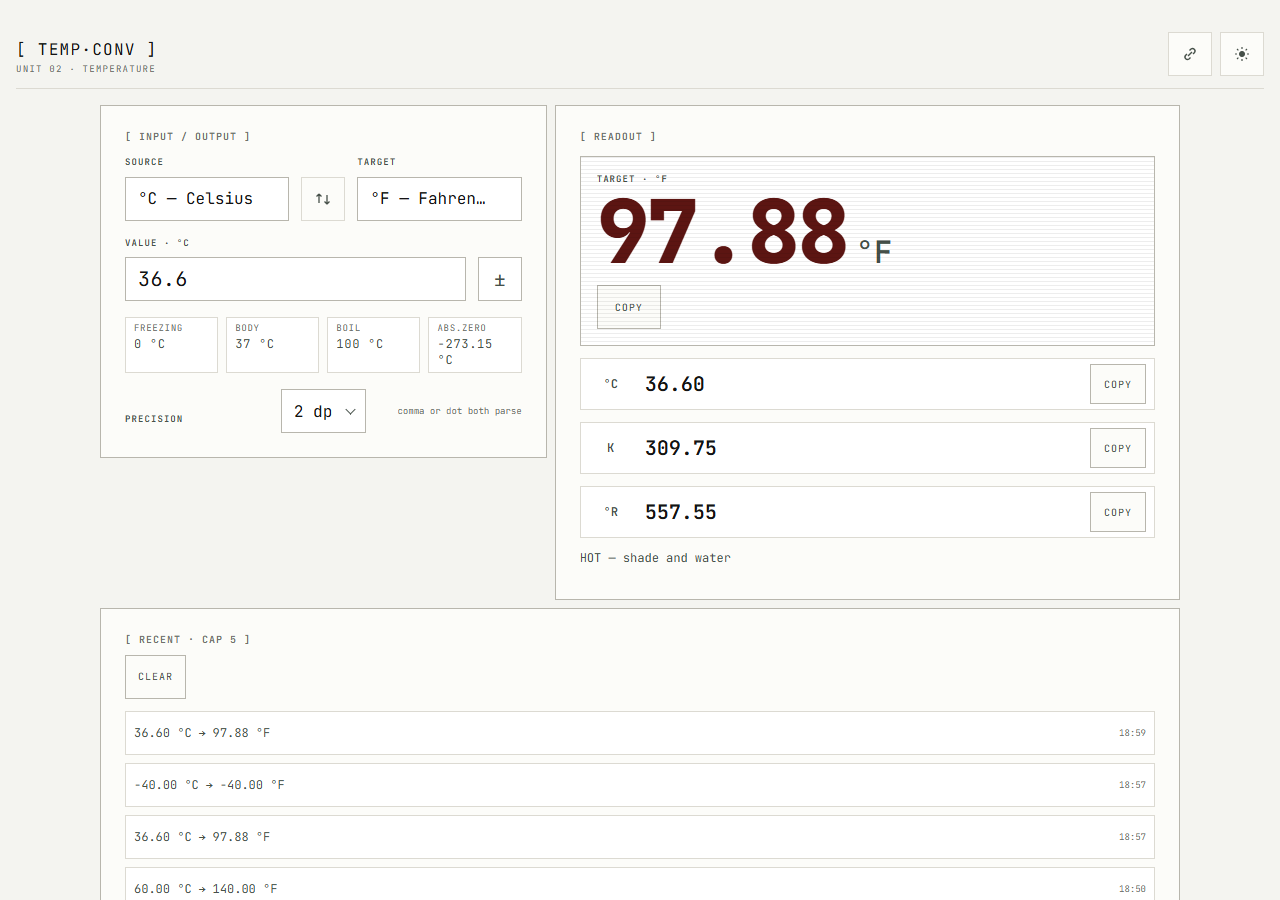
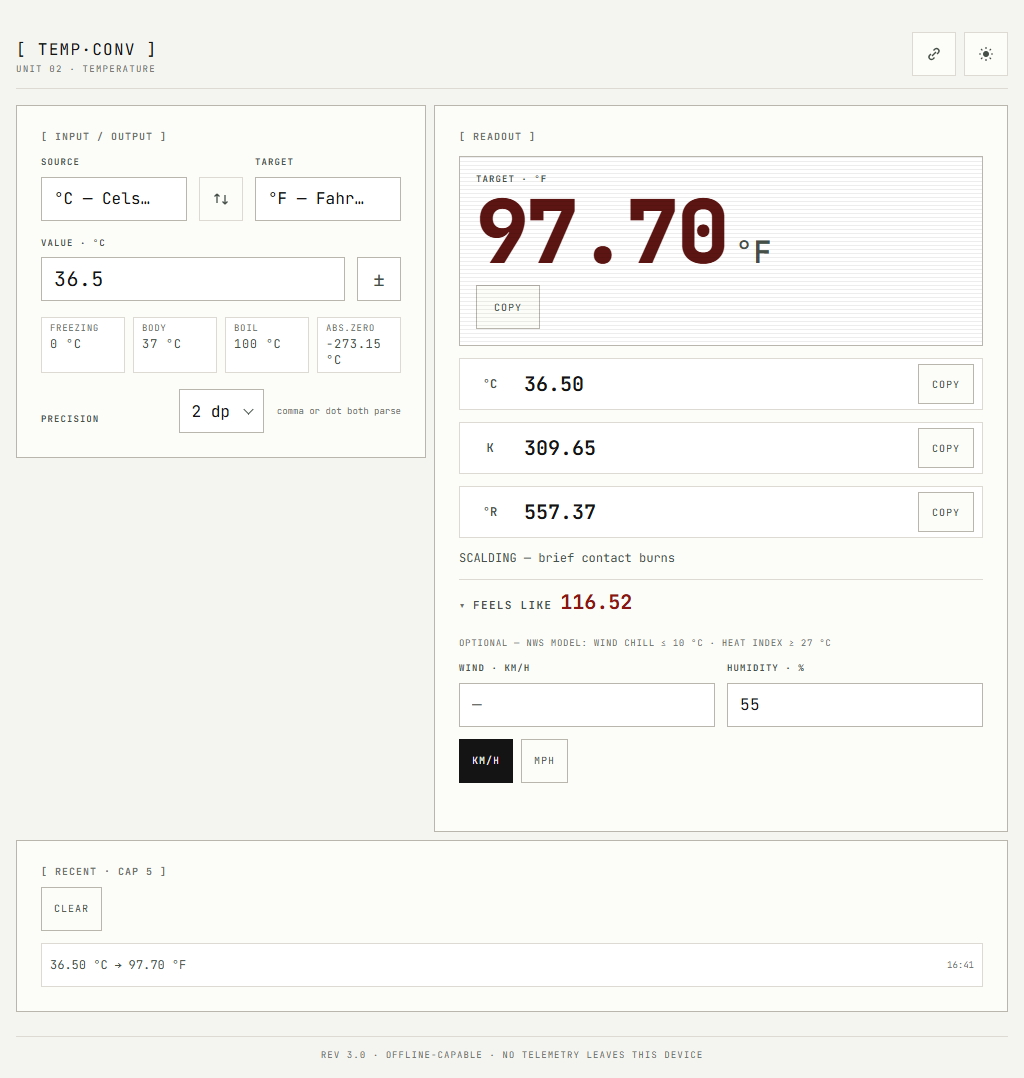
docs: README feels-like + cache guard sections, CHANGELOG 3.2.0, refreshed screenshots

diff --git a/README.md b/README.md
@@ -2,13 +2,14 @@
 
 Temperature instrument — converts between **Celsius, Fahrenheit, Kelvin and Rankine**, reads the scale back as what it physically *feels like*, and works fully offline. Unit 02 of the [Tactical Telemetry](https://github.com/AkabaneKarmX) instrument set.
 
-![Phone view: 36.6 °C read as 97.88 °F in warm phosphor](assets/screens/phone-hero.png)
+![Phone view: 36.6 °C read as 97.88 °F, heat index 117.05 °F engages](assets/screens/phone-hero.png)
 
 ## Features
 
 - **Four units, always live** — every keystroke converts to all three other scales at once; the target readout is the big hero, the other units are single-tap copy rows
 - **Thermal colour readout** — the hero value shifts hue with the temperature: steel blue at −40 °C, neutral at room temperature, brick/alarm red from body heat to boiling
 - **Feel band** — plain-language verdict under the readout ("FREEZING — ice season, pipes at risk", "HOT — shade and water")
+- **Feels like (NWS models)** — optional panel that turns the temperature into a felt-temperature: **wind chill** at ≤ 10 °C with enough wind (min ~4.8 km/h / 3 mph), **heat index** at ≥ 27 °C with ≥ 40 % humidity; outside those windows it says what's missing instead of inventing a number. The felt value takes over the hero readout and its thermal colour while it applies, and wind units toggle KM/H ↔ MPH
 - **Presets** — FREEZING / BODY / BOIL / ABS.ZERO, one tap each
 - **Precision control** — 0 to 4 decimal places, noise-free display (0.1 + 0.2 never shows up as 0.30000000000000004)
 - **Absolute-zero guard** — nothing below −273.15 °C parses as valid, in any input scale, float-edge included
@@ -19,7 +20,9 @@ Temperature instrument — converts between **Celsius, Fahrenheit, Kelvin and Ra
 - **Offline PWA** — service worker, same-origin-only, installs to the home screen
 - **Two themes** — dark phosphor console (default on dark OS) and light lab paper, auto or manual
 
-![Phone view: −40 °C in cold steel blue](assets/screens/phone-cold.png)
+![Phone view: −10 °C with 20 km/h of wind — wind chill grips the hero](assets/screens/phone-cold.png)
+
+![Phone view: the feels-like panel expanded — wind, humidity, unit chips](assets/screens/phone-feels.png)
 
 ![Desktop: two-column instrument layout](assets/screens/desktop-light.png)
 
@@ -43,7 +46,17 @@ Opening `index.html` directly from disk also works; only the offline install is 
 
 1. Push this branch and merge, or serve `main`.
 2. Settings → Pages → deploy from branch `main` → `/ (root)`.
-3. After every future change, remember to bump `CACHE` in `sw.js` so returning visitors get fresh files.
+3. After every change to any precached asset, bump `CACHE` in `sw.js` so returning visitors get fresh files. A pre-commit guard enforces this — it fingerprints every precached asset and blocks the commit if any of them changed while `CACHE` stayed the same.
+
+## Enabling the cache guard
+
+The guard runs on every commit, but hooks aren't cloned from GitHub — install it once after cloning:
+
+```bash
+cp tools/pre-commit .git/hooks/pre-commit
+```
+
+It is pure Node, reads assets straight from the git index (stable across line-ending settings), and refuses commits that alter precached files without a `CACHE` bump — including accidental bypasses it remembers after a `--no-verify` commit, which then block the next commit until you bump. Bypassing with `--no-verify` is allowed for WIP; the release commit must be guard-clean. To run the same check manually: `node tools/check-cache.js`.
 
 ## Tests
 
@@ -51,17 +64,24 @@ Opening `index.html` directly from disk also works; only the offline install is 
 node --test tests/convert.test.js
 ```
 
-Covers the conversion core: all 16 unit pairs, the −40 °C = −40 °F identity, absolute-zero clamp in every scale, float-boundary at the floor, comma-as-decimal parsing, magnitude and length caps, precision formatting and `-0` cleanup (15 tests).
+28 tests covering the conversion core: all 16 unit pairs, the −40 °C = −40 °F identity, absolute-zero clamp in every scale, float-boundary at the floor, comma-as-decimal parsing, magnitude and length caps, precision formatting and `-0` cleanup, exact-offset **K↔R and F↔R paths** (300 K = 540.00 °R, 32 °F = 491.67 °R, no C-round-trip noise), plus the **NWS feels-like** models — wind-chill NWS reference values and validity windows, full Rothfusz heat-index at 27 °C+ with the low/high-RH adjustments, and a 16-pair noise sweep.
+
+## Changelog
+
+See [CHANGELOG.md](CHANGELOG.md).
 
 ## Project structure
 
 ```
-index.html            instrument markup (strict CSP, no inline code)
-Scripts/convert.js    pure conversion core (no DOM)
-Scripts/app.js        UI wiring, URL/history state, offline registration
-Stylesheets/app.css   design tokens (dark/light), layout, motion
-tests/convert.test.js node:test suite for the core
-sw.js                 versioned cache-first service worker
-manifest.webmanifest  install metadata + icons
-assets/               self-hosted JetBrains Mono, icons, screenshots
+index.html                instrument markup (strict CSP, no inline code)
+Scripts/convert.js        pure conversion core (no DOM) incl. windChill/heatIndex/feelsLike
+Scripts/app.js            UI wiring, URL/history state, offline registration
+Stylesheets/app.css       design tokens (dark/light), layout, motion
+tests/convert.test.js     node:test suite for the core (28 specs)
+tools/check-cache.js      service-worker cache-drift guard
+tools/pre-commit          git hook template wiring the guard in
+.cache-manifest.json      guard's fingerprint of the last guard-clean commit
+sw.js                     versioned cache-first service worker
+manifest.webmanifest      install metadata + icons
+assets/                   self-hosted JetBrains Mono, icons, screenshots
 ```

diff --git a/CHANGELOG.md b/CHANGELOG.md
@@ -1,0 +1,22 @@
+# Changelog
+
+All notable changes to TEMP·CONV are documented here.
+Numbers are service-worker cache versions — they are what visitors should see once the site is published.
+
+## [3.2.0] — 2026-11-04 — feels-like release
+
+### Added
+- **Feels-like model in the core** (`Scripts/convert.js`): `windChill()` (NWS/EC formula, valid ≤ 10 °C with wind ≥ 4.8 km/h / 3 mph), `heatIndex()` (NWS Rothfusz regression with the < 13 % and > 85 % corrections, valid ≥ 27 °C at ≥ 40 % humidity), and a `feelsLike()` dispatcher that answers with the felt value or a plain reason (`wind` / `cold` / `heat` / `rh` / `range` / `window`) — no invented numbers outside proven windows.
+- **Feels-like panel in the UI** (`index.html` + `Scripts/app.js` + `Stylesheets/app.css`): collapsible `[ FEELS LIKE ]` row under the feel band, with wind and humidity inputs, a KM/H ↔ MPH unit toggle (persisted), a live status line for n/a explanations, and `aria`-live announcements. An active model takes over the hero readout and its thermal colour; the visible text and hit targets (44 px) follow the instrument conventions.
+- **Direct-conversion paths for exactness** (theme: fixable limitations): K↔°R now convert directly (×1.8 / ÷1.8) and °F↔°R offset in one step (+459.67 / −459.67) instead of chaining through °C/K — removing rounding artifacts on absolute-scale pairs.
+- **Cache-drift guard** (`tools/check-cache.js` + `tools/pre-commit`): dependency-free pre-commit hook that fingerprints all 11 precached assets from the git index and refuses commits that change them without a `CACHE` bump in `sw.js` (also remembers bypasses from `--no-verify` commits). State of the last guard-clean commit lives in `.cache-manifest.json`.
+- **Docs**: README sections for the guard and the feels-like feature; refreshed screenshots incl. the expanded panel; SECURITY.md covers the `_headers`/host-quirks table.
+
+### Changed
+- Tests grew from 15 to 28: NWS reference pins, validity-window regressions, noise-sweep assertion, direct-path pins (300 K = 540.00 °R, 32 °F = 491.67 °R).
+- `.fl-val` sized up to 1.25rem so the felt value meets the large-text AA bar in the darkest phosphor.
+
+### Verification (release tree)
+- 28 / 28 tests pass · `node tools/check-cache.js` no drift at `tempconv-v3.2.0` · Lighthouse 100 / 100 / 100 / 100 (performance, accessibility, best practices, SEO) · offline reload serves from cache · keyboard panel toggle (Enter on summary) + persisted state · no overflow at 360 / 768 / 1024 px · app runtime greps clean (no `innerHTML`, `eval`, inline handlers).
+
+[3.2.0]: https://github.com/AkabaneKarmX/temperature-converter
